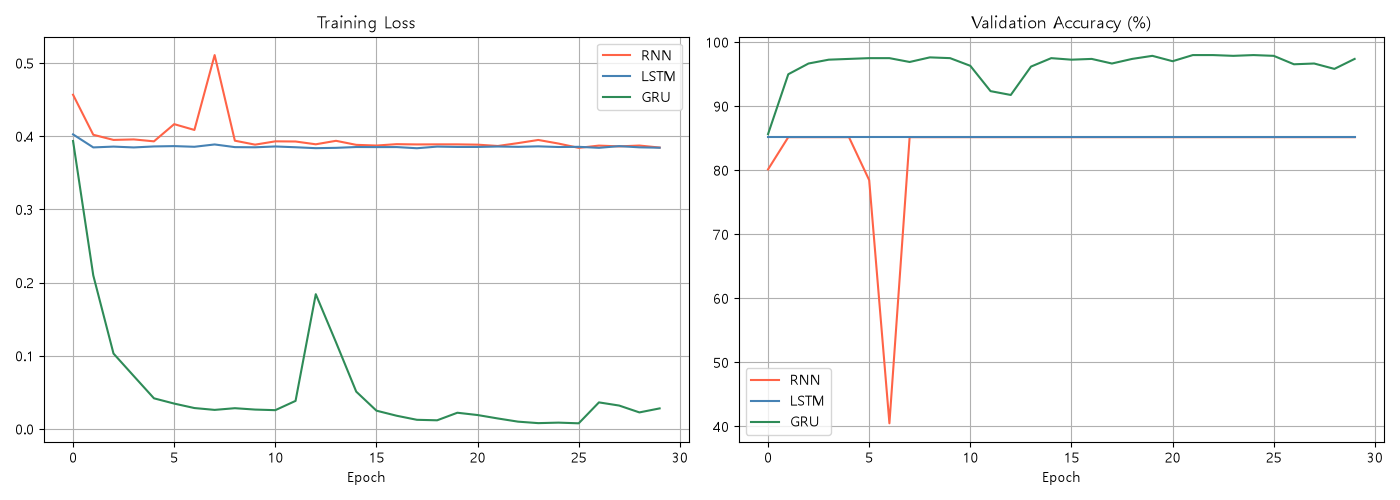
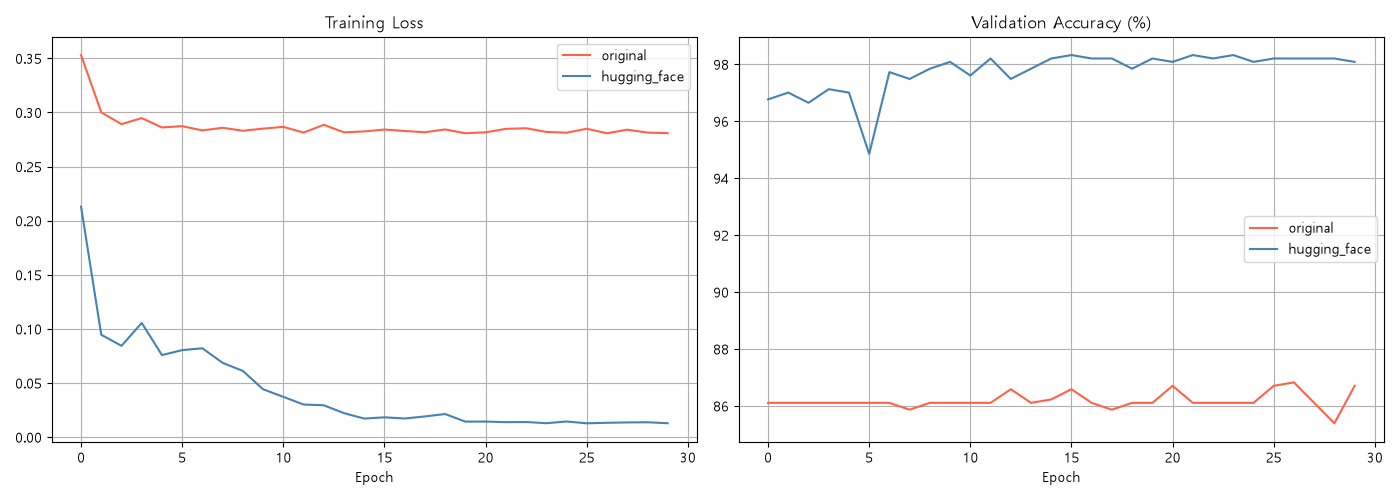
+0827: tok_main.py

diff --git a/tok_main.py b/tok_main.py
@@ -38,8 +38,13 @@ def make_splits(length_of_df):
     split_num = torch.randperm(length_of_df, generator = torch.Generator().manual_seed(42)).tolist()
     n_train = int(length_of_df * 0.7)
     n_valid = int(length_of_df * 0.15)
-    return split_num[:n_train], split_num[n_train:n_train+n_valid, split_num[n_train+n_valid]]
+    return split_num[:n_train], split_num[n_train:n_train+n_valid], split_num[n_train+n_valid:]
 
+import torch.nn as nn
+import torch.optim as optim
+from models.rnn import SpamRNN, SpamLSTM, SpamGRU
+from utils.visualize import plot_comparison
+from main import train, evaluate
 
 if __name__ == '__main__':
 
@@ -50,23 +55,62 @@ if __name__ == '__main__':
     tokenizer = AutoTokenizer.from_pretrained('bert-base-uncased')
 
     #0. 전체 데이터셋인 df 가져옴
-    df = pd.read_csv('SMSSpamCollection', sep = '\t', header = None, names = ['labels','text'])
+    df = pd.read_csv('SMSSpamCollection', sep = '\t', header = None, names = ['label','text'])
     df['label'] = (df['label'] == 'spam').astype(int)       #데이터프레임 열 중 label 열을 0(정상), 1(스팸)으로 분류
 
-    train_idx, valid_idx, test_idx =make_splits(len(df)) 
+    print(df.head())
+
+    train_idx, valid_idx, test_idx = make_splits(len(df)) 
 
     #1. 전통적인 tokenizer를 거친 데이터셋을 갖고 와 lstm으로 훈련
+    #1-1. 전통적인 tokenizer를 거친 데이터셋 로드
+    original_vocab = main.build_vocab(df)
+    original_data = main.SpamDataset(df, original_vocab, 50)
+
+    original_train = DataLoader(Subset(original_data, train_idx), batch_size=32, shuffle=True)
+    original_valid = DataLoader(Subset(original_data, valid_idx), batch_size=32)
+    original_test = DataLoader(Subset(original_data, test_idx), batch_size=32)
+
+    td, tl = next(iter(original_test))
+    print(td, tl)
+
+    #1-2. 모델 생성
+    original_LSTM = SpamLSTM(len(original_vocab))
+
+    criterion = nn.CrossEntropyLoss()
+    optimizer = optim.Adam(original_LSTM.parameters())
+    num_epochs = 30
+    device = 'cuda' if torch.cuda.is_available() else 'cpu'
+    #훈련, 평가
+    original_history = train(original_LSTM, original_train, original_valid, criterion, optimizer, num_epochs, device, model_name = 'original')
+    o_labels, o_preds = evaluate(original_LSTM, original_test, device, model_name = 'original')
+
 
     #2. 허깅페이스 tokenizer를 거친 데이터셋을 갖고 와 lstm으로 훈련
+    #2-1.허깅페이스를 거친 데이터셋 로드
+    hug_data = HugDataset(df, tokenizer, 50)
+    hug_train = DataLoader(Subset(hug_data, train_idx), batch_size=32, shuffle=True)
+    hug_valid = DataLoader(Subset(hug_data, valid_idx), batch_size=32)
+    hug_test = DataLoader(Subset(hug_data, test_idx), batch_size=32)
 
+    #2-2. 모델 생성, 훈련 및 평가
+    #허깅페이스에서 다운받은 토크나이저의 특성 속에 vocab_size가 미리 정의되어 있음
+    hug_LSTM = SpamLSTM(tokenizer.vocab_size)
+    h_optimizer = optim.Adam(hug_LSTM.parameters())
 
+    hug_history = train(hug_LSTM, hug_train, hug_valid, criterion, h_optimizer, num_epochs, device, model_name='hugging_face')
+    h_labels, h_preds = evaluate(hug_LSTM, hug_test, device, model_name = 'hugging_face')
 
+    histories, eval_results, train_models = [], [], {}
 
+    histories.append(original_history)
+    histories.append(hug_history)
+    eval_results.append((o_labels, o_preds))
+    eval_results.append((h_labels, h_preds))
+    train_models['original'] = original_LSTM
+    train_models['hugging_face'] = hug_LSTM
 
-
-
-
-
+    plot_comparison(histories, ['original', 'hugging_face'])
 
 
 
